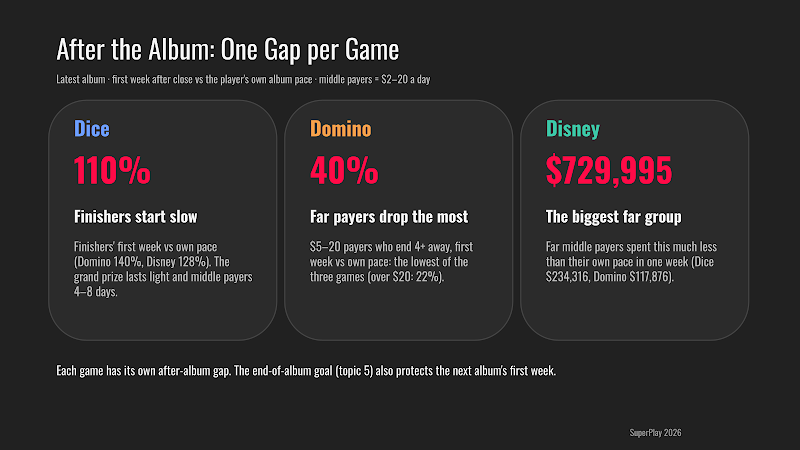
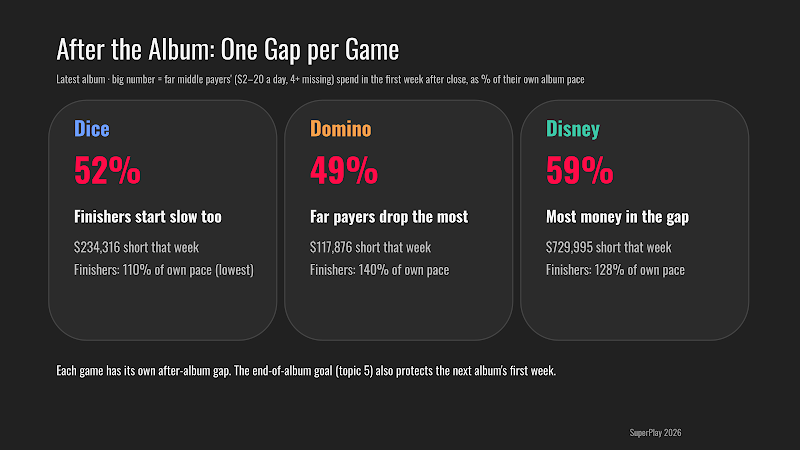
Topic 6: same three measures on every game card

diff --git a/claude/slide_t5_story_2026-10-24.py b/claude/slide_t5_story_2026-10-24.py
@@ -214,9 +214,9 @@ def s6b():   # topic 6: one after-album problem per game
          {'updatePageProperties': {'objectId': S, 'pageProperties': {'pageBackgroundFill': {'solidFill': {'color': {'rgbColor': {'red': 0.129, 'green': 0.129, 'blue': 0.129}}}}}, 'fields': 'pageBackgroundFill'}}]
     R += tbox(S, S + '_ti', 0.61, 0.33, 8.8, 0.5, 'After the Album: One Gap per Game', 24, WHITE)
     R += tbox(S, S + '_su', 0.61, 0.82, 8.8, 0.25, 'Latest album · first week after close vs the player\'s own album pace · middle payers = $2–20 a day', 9.5, GREY)
-    cards_ = [('dc', 0.61, 'Dice', BLUE, '110%', 'Finishers start slow', 'Finishers\' first week vs own pace (Domino 140%, Disney 128%). The grand prize lasts light and middle payers 4–8 days.'),
-              ('dm', 3.56, 'Domino', {'red': 0.961, 'green': 0.627, 'blue': 0.29}, '40%', 'Far payers drop the most', '$5–20 payers who end 4+ away, first week vs own pace: the lowest of the three games (over $20: 22%).'),
-              ('ds', 6.51, 'Disney', GREEN, '$729,995', 'The biggest far group', 'Far middle payers spent this much less than their own pace in one week (Dice $234,316, Domino $117,876).')]
+    cards_ = [('dc', 0.61, 'Dice', BLUE, '52%', 'Finishers start slow too', '$234,316 short that week\nFinishers: 110% of own pace (lowest)'),
+              ('dm', 3.56, 'Domino', {'red': 0.961, 'green': 0.627, 'blue': 0.29}, '49%', 'Far payers drop the most', '$117,876 short that week\nFinishers: 140% of own pace'),
+              ('ds', 6.51, 'Disney', GREEN, '59%', 'Most money in the gap', '$729,995 short that week\nFinishers: 128% of own pace')]   # same 3 measures per card (Eden)
     for k, x, name, gc, big, head, detail in cards_:
         R += box(S, f'{S}_{k}_card', x, 1.25, 2.85, 3.0, 'ROUND_RECTANGLE')
         R += [{'updateShapeProperties': {'objectId': f'{S}_{k}_card', 'shapeProperties': {'shapeBackgroundFill': {'solidFill': {'color': {'rgbColor': {'red': 0.169, 'green': 0.169, 'blue': 0.169}}}},
@@ -224,7 +224,7 @@ def s6b():   # topic 6: one after-album problem per game
         R += tbox(S, f'{S}_{k}_h', x + 0.22, 1.37, 2.4, 0.4, name, 18, gc, True)
         R += tbox(S, f'{S}_{k}_big', x + 0.22, 1.8, 2.4, 0.6, big, 30, RED, True)
         R += tbox(S, f'{S}_{k}_head', x + 0.22, 2.5, 2.4, 0.35, head, 14, WHITE, True)
-        R += tbox(S, f'{S}_{k}_det', x + 0.22, 2.9, 2.45, 1.2, detail, 11, GREY)
+        R += tbox(S, f'{S}_{k}_det', x + 0.22, 2.9, 2.45, 1.2, detail, 12, GREY)
     R += tbox(S, S + '_ms', 0.61, 4.45, 7.0, 0.3, 'Each game has its own after-album gap. The end-of-album goal (topic 5) also protects the next album\'s first week.', 11, WHITE)
     R += tbox(S, S + '_ft', 7.78, 5.25, 1.72, 0.2, 'SuperPlay 2026', 8, {'red': 0.62, 'green': 0.62, 'blue': 0.62})
     return R

diff --git a/claude/data-story-review-2026-10-21.md b/claude/data-story-review-2026-10-21.md
@@ -113,3 +113,4 @@ Topic map: 0 definitions and denominator · 1 where the money is in the album ·
 - 2026-10-24 (later): Eden asked: n0_slide opening (info only) "Paying Players and Album Revenue by Spend Level, All Games" placed before t5b (start of topic 5): pooled Dice 63 + Domino 20 + Disney 15 — over $20 2% / 29%, $5–20 11% / 37%, $2–5 15% / 18%, ≤$2 66% / 15%, $0 6% / <1% (pooled from per-game shares). n6_slide "Revenue Within 3 Stickers at Close−4: All Payers vs by Spend Level" (Dice 63 vs Disney 15: all 54/43, over $20 68/71, $2–5 43/23) replaces n3 in the story; n3 moved to the end as appendix. Order now: n0, t5b, t5a, t5c, t5d, n1, n2, n6, n5, n4, n3 (appendix).
 - 2026-10-24 (later): Eden kept (unskipped) n0, her copy h621288aadfa9fec0_0_3035 (purple highlight on the 3 middle levels), t5a, t5b; skipped the rest. Asked: same level order everywhere (low to high, as t5a/t5b) → n0 and 3035 rows now $0, ≤$2, $2–5, $5–20, >$20; a clearer recommendation with less text for Domino and Disney → r1_slide "End Goal per Spend Level: Revenue Within 3 Stickers at Close−4" (goal = Dice 63 level, proposal; Domino 20 meets it in 3 of 4, Disney below in every level under $20) and r2_slide "What to Do at the End of the Album: Domino and Disney" (Domino ADOPT: make album 20's end the standard, daily goals from close−14; Disney TEST: extra sticker source for $2–20 payers from close−14). Both after t5b, not skipped, notes written.
 - 2026-10-24 (later): topic 6 started (`topic6-after-album-2026-10-24.md`, SQL `topic6_after_album_2026-10-24.sql`): first 7 days after the close date (next album days 2–8) vs own album pace, by spend level × end status. Same order everywhere: finished ≥ pace, 1–3 a bit below, 4+ about half. Eden: window = after the album's close date (not after the player's completion); Disney is not the only game with problems. Built (Eden approved) after r2: s6a_slide "Spend per Day in the Week After Close vs Own Album Pace, $2–20 a Day Payers" (finished vs 4+: Dice 63 110/52, Domino 20 140/49, Disney 15 128/59) and s6b_slide "After the Album: One Gap per Game" (Dice finishers slow 110%; Domino far $5–20 40%; Disney far middle $729,995 below own pace in one week). Notes written. Open: check whether far payers were already slowing before the end.
+- 2026-10-24 (later): s6b_slide fixed (Eden: why only Disney in dollars?): every card now shows the same three measures — big = far middle payers' first week as % of own pace (Dice 52%, Domino 49%, Disney 59%), $ short that week, finishers' % of own pace (110 / 140 / 128%).
